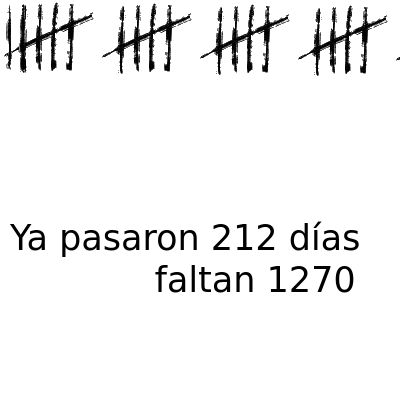
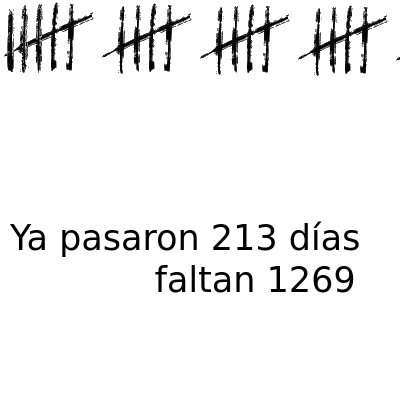
deploy: 28882f26f23b9f53dac6c4991168e610486d0e44

Changed region(s): [[0.0, 0.0, 0.12, 0.18], [0.78, 0.66, 0.9, 0.75], [0.63, 0.57, 0.69, 0.63]]

diff --git a/index.html b/index.html
@@ -3,19 +3,19 @@
   <head>
     <meta charset='utf-8'>
     <meta http-equiv='X-UA-Compatible' content='IE=edge'>
-    <title>Ya pasaron 212 días y faltan 1270</title>
-    <meta name="description" content="Ya pasaron 212 días y faltan 1270">
-    <meta itemprop="name" content="Ya pasaron 212 días y faltan 1270">
-    <meta itemprop="description" content="Ya pasaron 212 días y faltan 1270">
+    <title>Ya pasaron 213 días y faltan 1269</title>
+    <meta name="description" content="Ya pasaron 213 días y faltan 1269">
+    <meta itemprop="name" content="Ya pasaron 213 días y faltan 1269">
+    <meta itemprop="description" content="Ya pasaron 213 días y faltan 1269">
     <meta name="twitter:card" content="summary">
-    <meta name="twitter:title" content="Ya pasaron 212 días y faltan 1270">
-    <meta name="twitter:description" content="Ya pasaron 212 días y faltan 1270">
+    <meta name="twitter:title" content="Ya pasaron 213 días y faltan 1269">
+    <meta name="twitter:description" content="Ya pasaron 213 días y faltan 1269">
     <meta name="twitter:creator" content="@FloriusWasTaken">
     <meta name="twitter:image" content="https://pasaron.meme.ar/capture.png">
-    <meta property="og:title" content="Ya pasaron 212 días y faltan 1270">
-    <meta property="og:description" content="Ya pasaron 212 días y faltan 1270">
+    <meta property="og:title" content="Ya pasaron 213 días y faltan 1269">
+    <meta property="og:description" content="Ya pasaron 213 días y faltan 1269">
     <meta property="og:url" content="https://pasaron.meme.ar">
-    <meta property="og:site_name" content="Ya pasaron 212 días y faltan 1270">
+    <meta property="og:site_name" content="Ya pasaron 213 días y faltan 1269">
     <meta property="og:type" content="website">
     <meta property="og:image" content="https://pasaron.meme.ar/capture.png">
     <meta name="theme-color" content="#dc143c">
@@ -69,18 +69,18 @@
         padding: 0;
       }
     </style>
-    <title>Ya pasaron 212 días y faltan 1270</title>
+    <title>Ya pasaron 213 días y faltan 1269</title>
   </head>
   <body>
     <div id="main">
       <img src="img/5.png"/><img src="img/5.png"/><img src="img/5.png"/><img src="img/5.png"/><img src="img/5.png"/><img src="img/5.png"/><img src="img/5.png"/><img src="img/5.png"/><img src="img/5.png"/><img src="img/5.png"/><img src="img/5.png"/><img src="img/5.png"/><img src="img/5.png"/><img src="img/5.png"/><img src="img/5.png"/><img src="img/5.png"/><img src="img/5.png"/><img src="img/5.png"/><img src="img/5.png"/><img src="img/5.png"/><img src="img/5.png"/><img src="img/5.png"/><img src="img/5.png"/><img src="img/5.png"/><img src="img/5.png"/><img src="img/5.png"/><img src="img/5.png"/><img src="img/5.png"/><img src="img/5.png"/><img src="img/5.png"/><img src="img/5.png"/><img src="img/5.png"/><img src="img/5.png"/><img src="img/5.png"/><img src="img/5.png"/><img src="img/5.png"/><img src="img/5.png"/><img src="img/5.png"/><img src="img/5.png"/><img src="img/5.png"/><img src="img/5.png"/><img src="img/5.png"/>
       
-        <img src="img/2.png"/>
+        <img src="img/3.png"/>
       
     </div>
     <footer id="footer">
       <marquee id="marquee" class="is-vertical-align">
-        Ya pasaron 212 días y faltan 1270
+        Ya pasaron 213 días y faltan 1269
       </marquee>
       <ul>
         <li>
